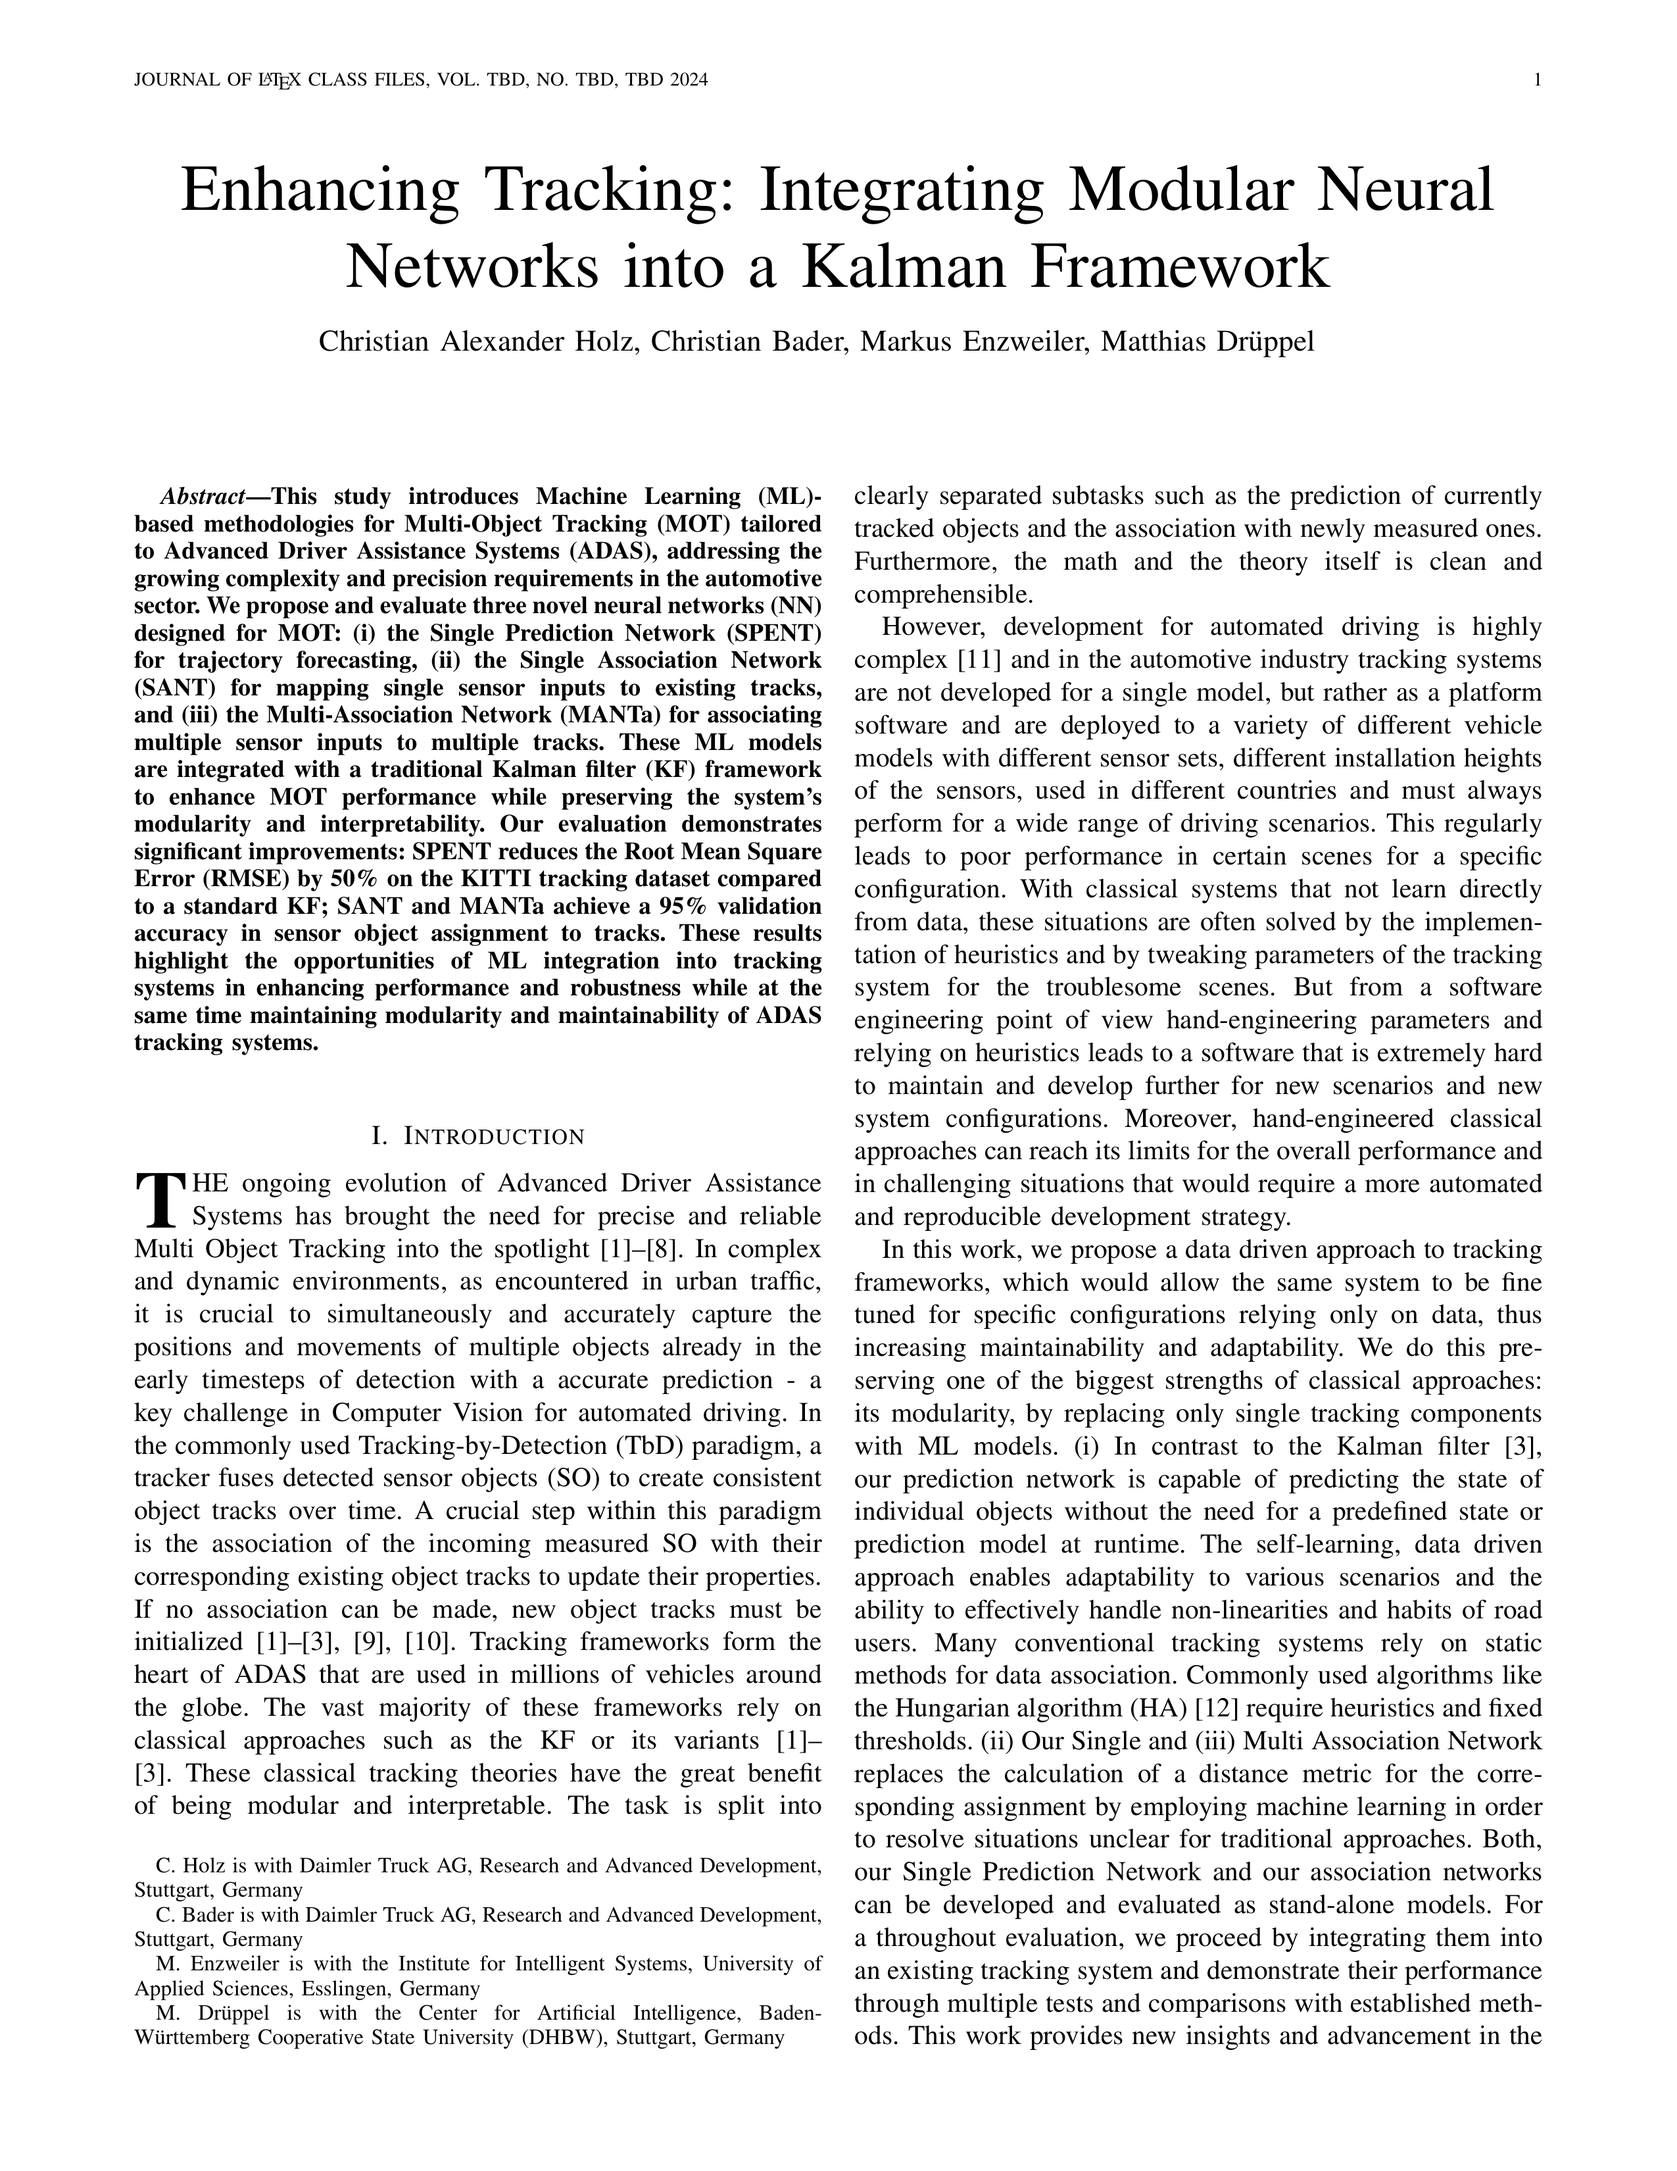
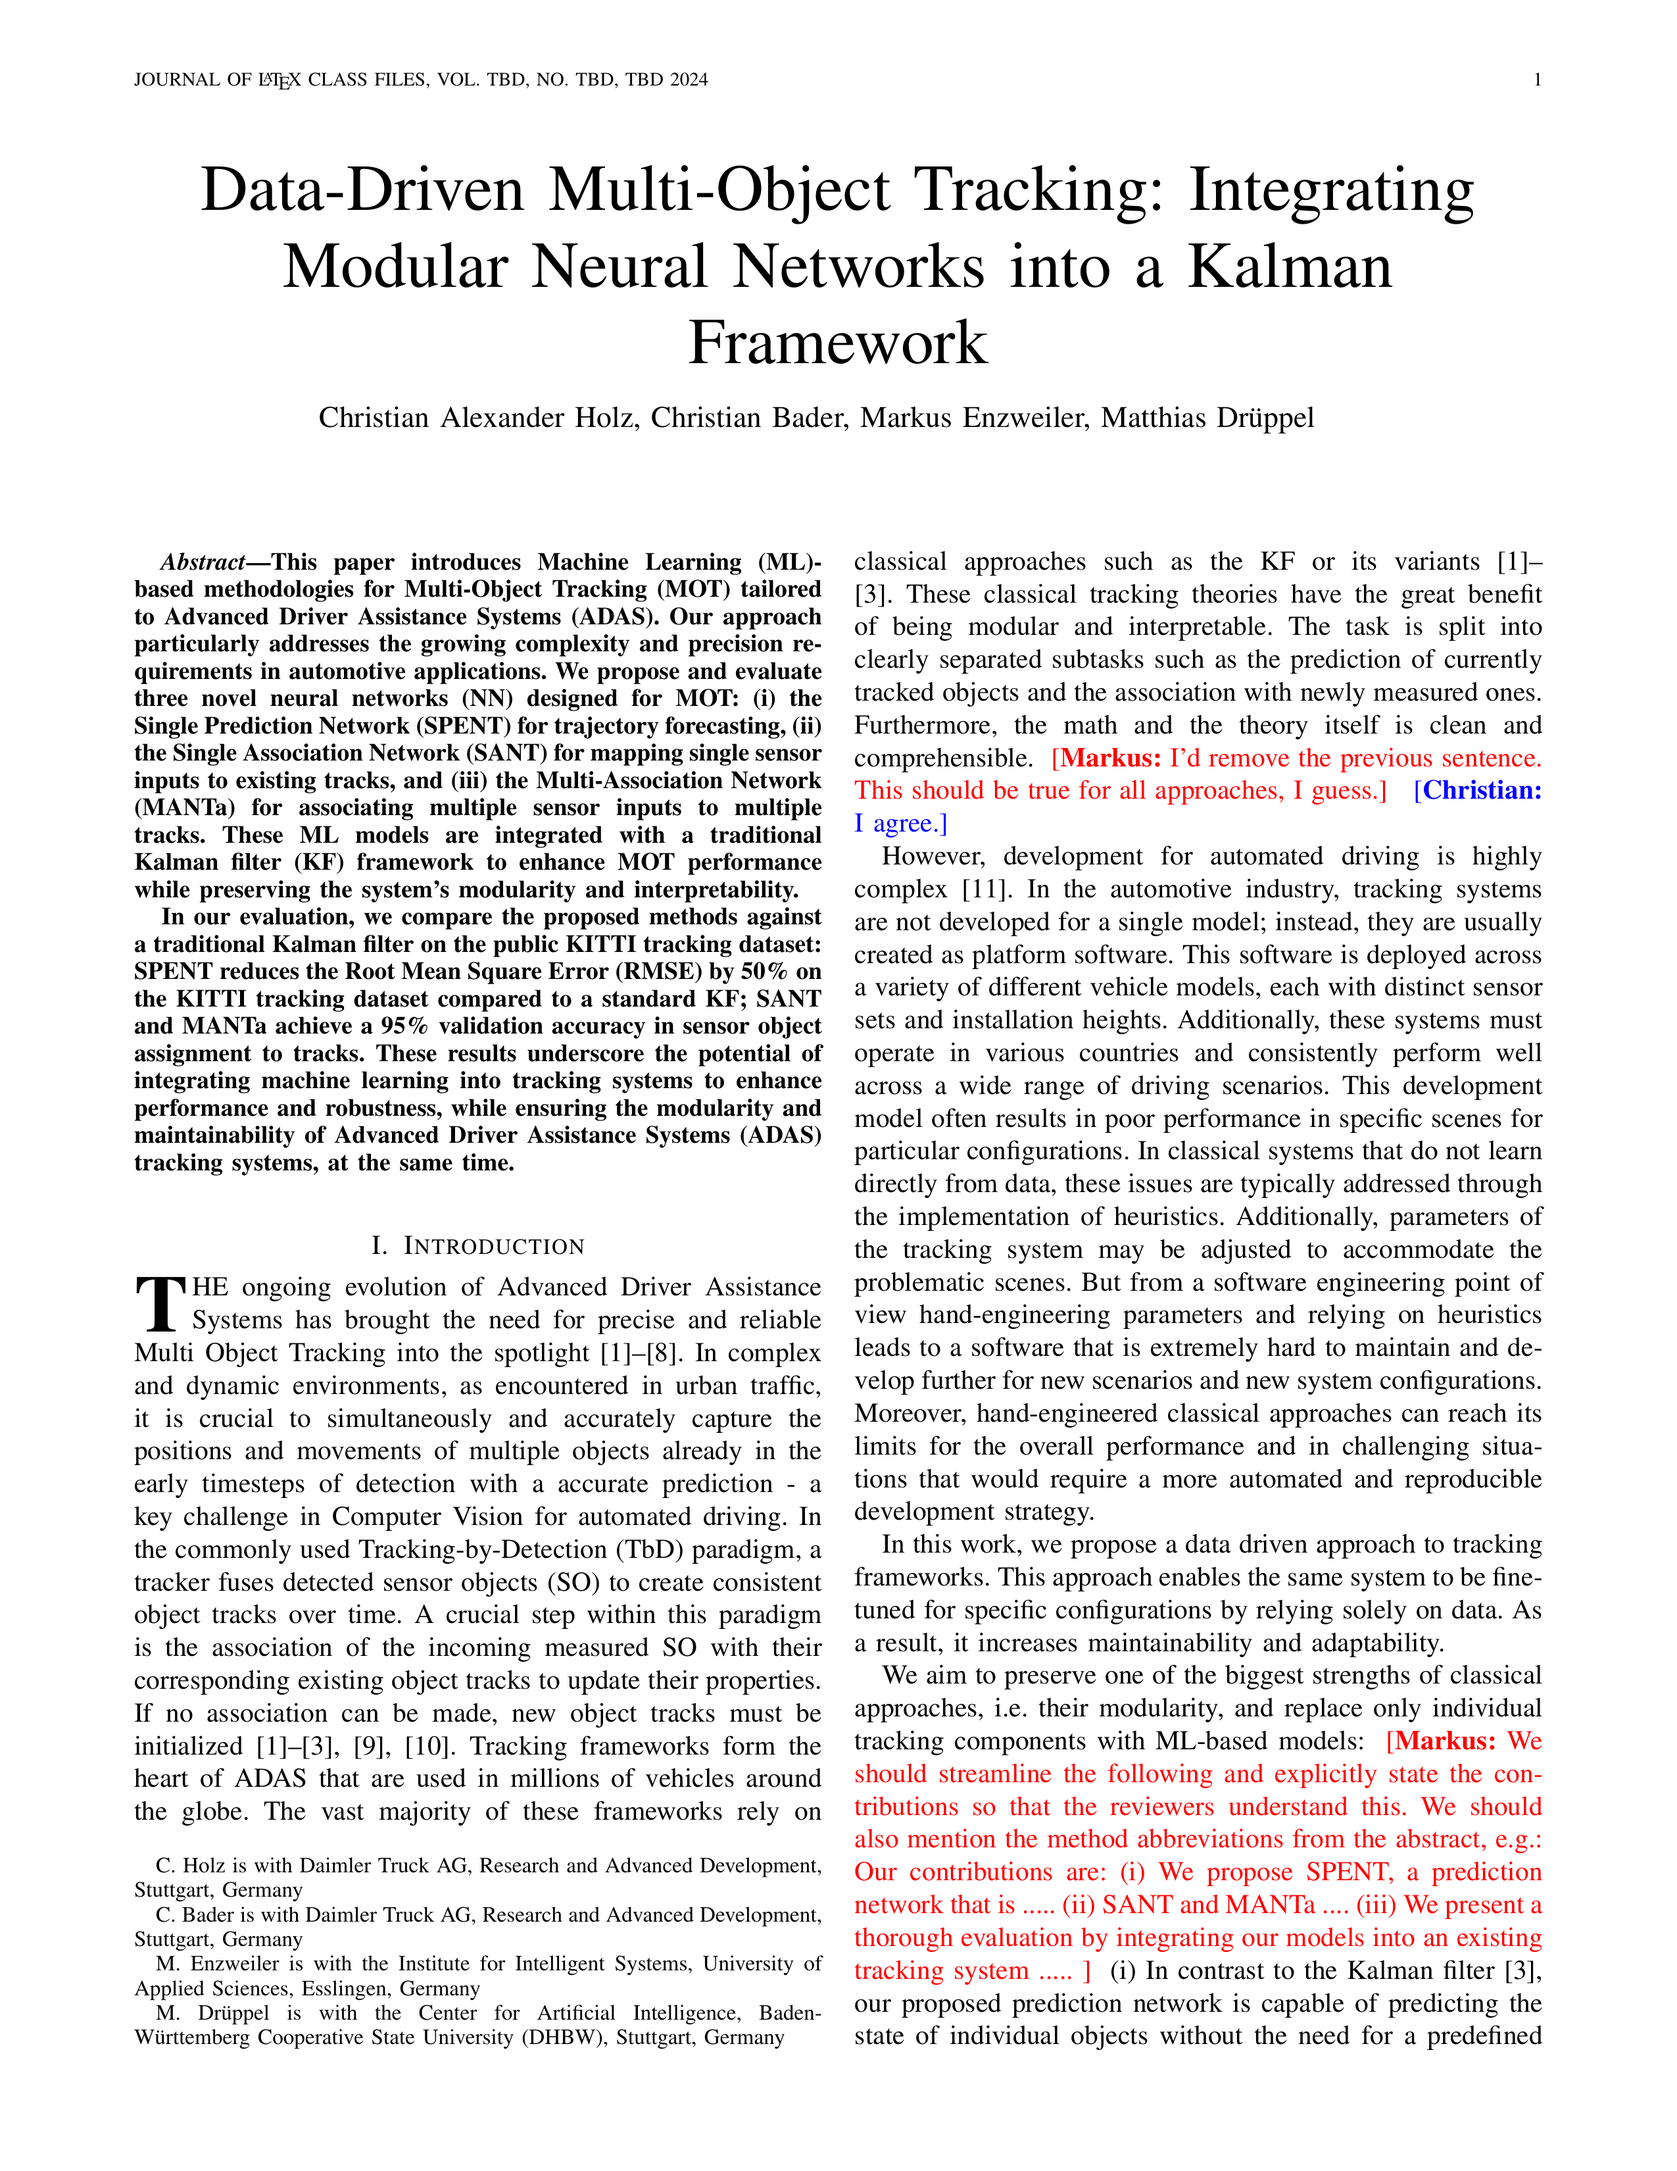
some suggested changes added, obsolete comments removed (Abstract, Intro, Related Work)

Changed region(s): [[0.062, 0.0624, 0.9294, 0.9676], [0.8675, 0.0624, 0.8984, 0.0936]]

diff --git a/MOT_ML.tex b/MOT_ML.tex
@@ -18,15 +18,9 @@
 %------ for comments
 \usepackage{color}
 \newcommand{\menz}[1]{ \noindent {\color{red} [{\bf Markus:} {#1}]} }
+\newcommand{\ch}[1]{ \noindent {\color{blue} [{\bf Christian:} {#1}]} }
 %------
 
-
-% MD: Der größte Angriffspunkt für dieses Paper ist doch: Wir nutzen KITTI Tracks, damit können wir nie besser werden als die KITTI Tracks.
-%	  Die Tracks selbst sind aber mit einem Kalman Filter erstellt.
-%	  Damit kann das Prediction Network auch nie besser werden als ein Kalman filter.
-%     Oder sehe ich das falsch?
-% CH: Die KITTI Tracks wurden für das Training aus den GT Daten mit entsprechendem Rauschen erzeugt.
-%	  Daher ist kein direkter Einfluss von KF / KF Performance für die einzelnen Prädiktionen gegeben.
 \begin{document}
 
 % CH: Titelvorschläge:
@@ -37,10 +31,8 @@
 % - Enhancing Tracking: Integrating Modular Neural Networks into a Kalman Framework
 % MD: Mein Vorschlag unten
 % - Data-Driven Multi-Object Tracking: Integrating Modular Neural Networks in a Kalman Framework
-
 \title{Data-Driven Multi-Object Tracking: Integrating Modular Neural Networks into a Kalman Framework}
 
-% CH: Autorenliste angepassen: Markus Enzweiler hinzufügen nach Absprache mit MD
 \author{Christian Alexander Holz, Christian Bader, Markus Enzweiler, Matthias Drüppel
 	\thanks{C. Holz is with Daimler Truck AG, Research and Advanced Development, Stuttgart, Germany}
 	\thanks{C. Bader is with Daimler Truck AG, Research and Advanced Development, Stuttgart, Germany}
@@ -62,44 +54,26 @@
 	
 	In our evaluation, we compare the proposed methods against a traditional Kalman filter on the public KITTI tracking dataset: SPENT reduces the Root Mean Square Error (RMSE) by 50\% on the KITTI tracking dataset compared to a standard KF; SANT and MANTa achieve a 95\% validation accuracy in sensor object assignment to tracks.
 	These results underscore the potential of integrating machine learning into tracking systems to enhance performance and robustness, while ensuring the modularity and maintainability of Advanced Driver Assistance Systems (ADAS) tracking systems, at the same time.
-	%Our evaluation demonstrates significant improvements:
-	%SPENT reduces the Root Mean Square Error (RMSE) by 50\% on the KITTI tracking dataset compared to a standard KF; SANT and MANTa achieve a 95\% validation accuracy in sensor object assignment to tracks.
-	%These results highlight the opportunities of ML integration into tracking systems in enhancing performance and robustness while at the same time maintaining modularity and maintainability of ADAS tracking systems.
+
 \end{abstract} 
 
-% \begin{IEEEkeywords}
-% 	Article submission, IEEE, IEEEtran, journal, \LaTeX, paper, template, typesetting.
-% \end{IEEEkeywords}
 \section{Introduction}
 \IEEEPARstart{T}{he}
 ongoing evolution of Advanced Driver Assistance Systems has brought the need for precise and reliable Multi Object Tracking into the spotlight {\cite{KF_Bewley.2016,KF_simple_cues.2022,KF_BoundingBD.2023, DL_RNN_mot.2016,DL_RNN_data_association.2019,DL_CNN_ATT_mot.2017,DL_ATT_Trackformer.2022, DL_ATT_CNN_soda.2020}}.
 In complex and dynamic environments, as encountered in urban traffic, it is crucial to simultaneously and accurately capture the positions and movements of multiple objects already in the early timesteps of detection with a accurate prediction - a key challenge in Computer Vision for automated driving.
 In the commonly used Tracking-by-Detection (TbD) paradigm, a tracker fuses detected sensor objects (SO) to create consistent object tracks over time.
 A crucial step within this paradigm is the association of the incoming measured SO with their corresponding existing object tracks to update their properties.
-%MD: Hier müssen noch einige Zitate rein.
-%CH: Zitate eingefügt, zwei neue ergänzt, nach Abstimmung mit CB.
 If no association can be made, new object tracks must be initialized {\cite{KF_Bewley.2016,KF_simple_cues.2022,KF_BoundingBD.2023,OD_kampker.2018,OD_wu.2022}}.
 Tracking frameworks form the heart of ADAS that are used in millions of vehicles around the globe.
 The vast majority of these frameworks rely on classical approaches such as the KF or its variants {\cite{KF_Bewley.2016,KF_simple_cues.2022,KF_BoundingBD.2023}}.
 These classical tracking theories have the great benefit of being modular and interpretable.
-The task is split into clearly separated subtasks such as the prediction of currently tracked objects and the association with newly measured ones.
-Furthermore, the math and the theory itself is clean and comprehensible. \menz{I'd remove the previous sentence. This should be true for all approaches, I guess.}
+The task is split into clearly separated subtasks such as the prediction of currently tracked objects and the association with newly measured ones. 
 
-%MD: I added AD_Overview.2017, but I am not happy with the citation, there should be something better to be found.
-%    And it should best talk about the complexity that is introduced by applying the same software to different models.
-%    Maybe you can find something? Then I would cite it further down the paragraph
-
-%ME: That's a long sentence ... I've split it up. 
-%However, development for automated driving is highly complex {\cite{AD_Overview.2017}} and in the automotive industry tracking systems are not developed for a single model,
-%but rather as a platform software and are deployed to a variety of different vehicle models
-%with different sensor sets, different installation heights of the sensors,
-%used in different countries and must always perform for a wide range of driving scenarios.
-However, development for automated driving is highly complex~{\cite{AD_Overview.2017}} . In the automotive industry, 
-tracking systems are not developed for a single model; instead, they are usually created as platform software. 
-This software is deployed across a variety of different vehicle models, each with distinct sensor sets and 
-installation heights. Additionally, these systems must operate in various countries and consistently perform 
+However, development for automated driving is highly complex~{\cite{AD_Overview.2017}}.
+In the automotive industry, tracking systems are not developed for a single model; instead, they are usually created as platform software.
+This software is deployed across a variety of different vehicle models, each with distinct sensor sets and installation heights.
+Additionally, these systems must operate in various countries and consistently perform 
 well across a wide range of driving scenarios.
-
 This development model often results in poor performance in specific scenes for particular configurations. 
 In classical systems that do not learn directly from data, these issues are typically addressed through 
 the implementation of heuristics. Additionally, parameters of the tracking system may be 
